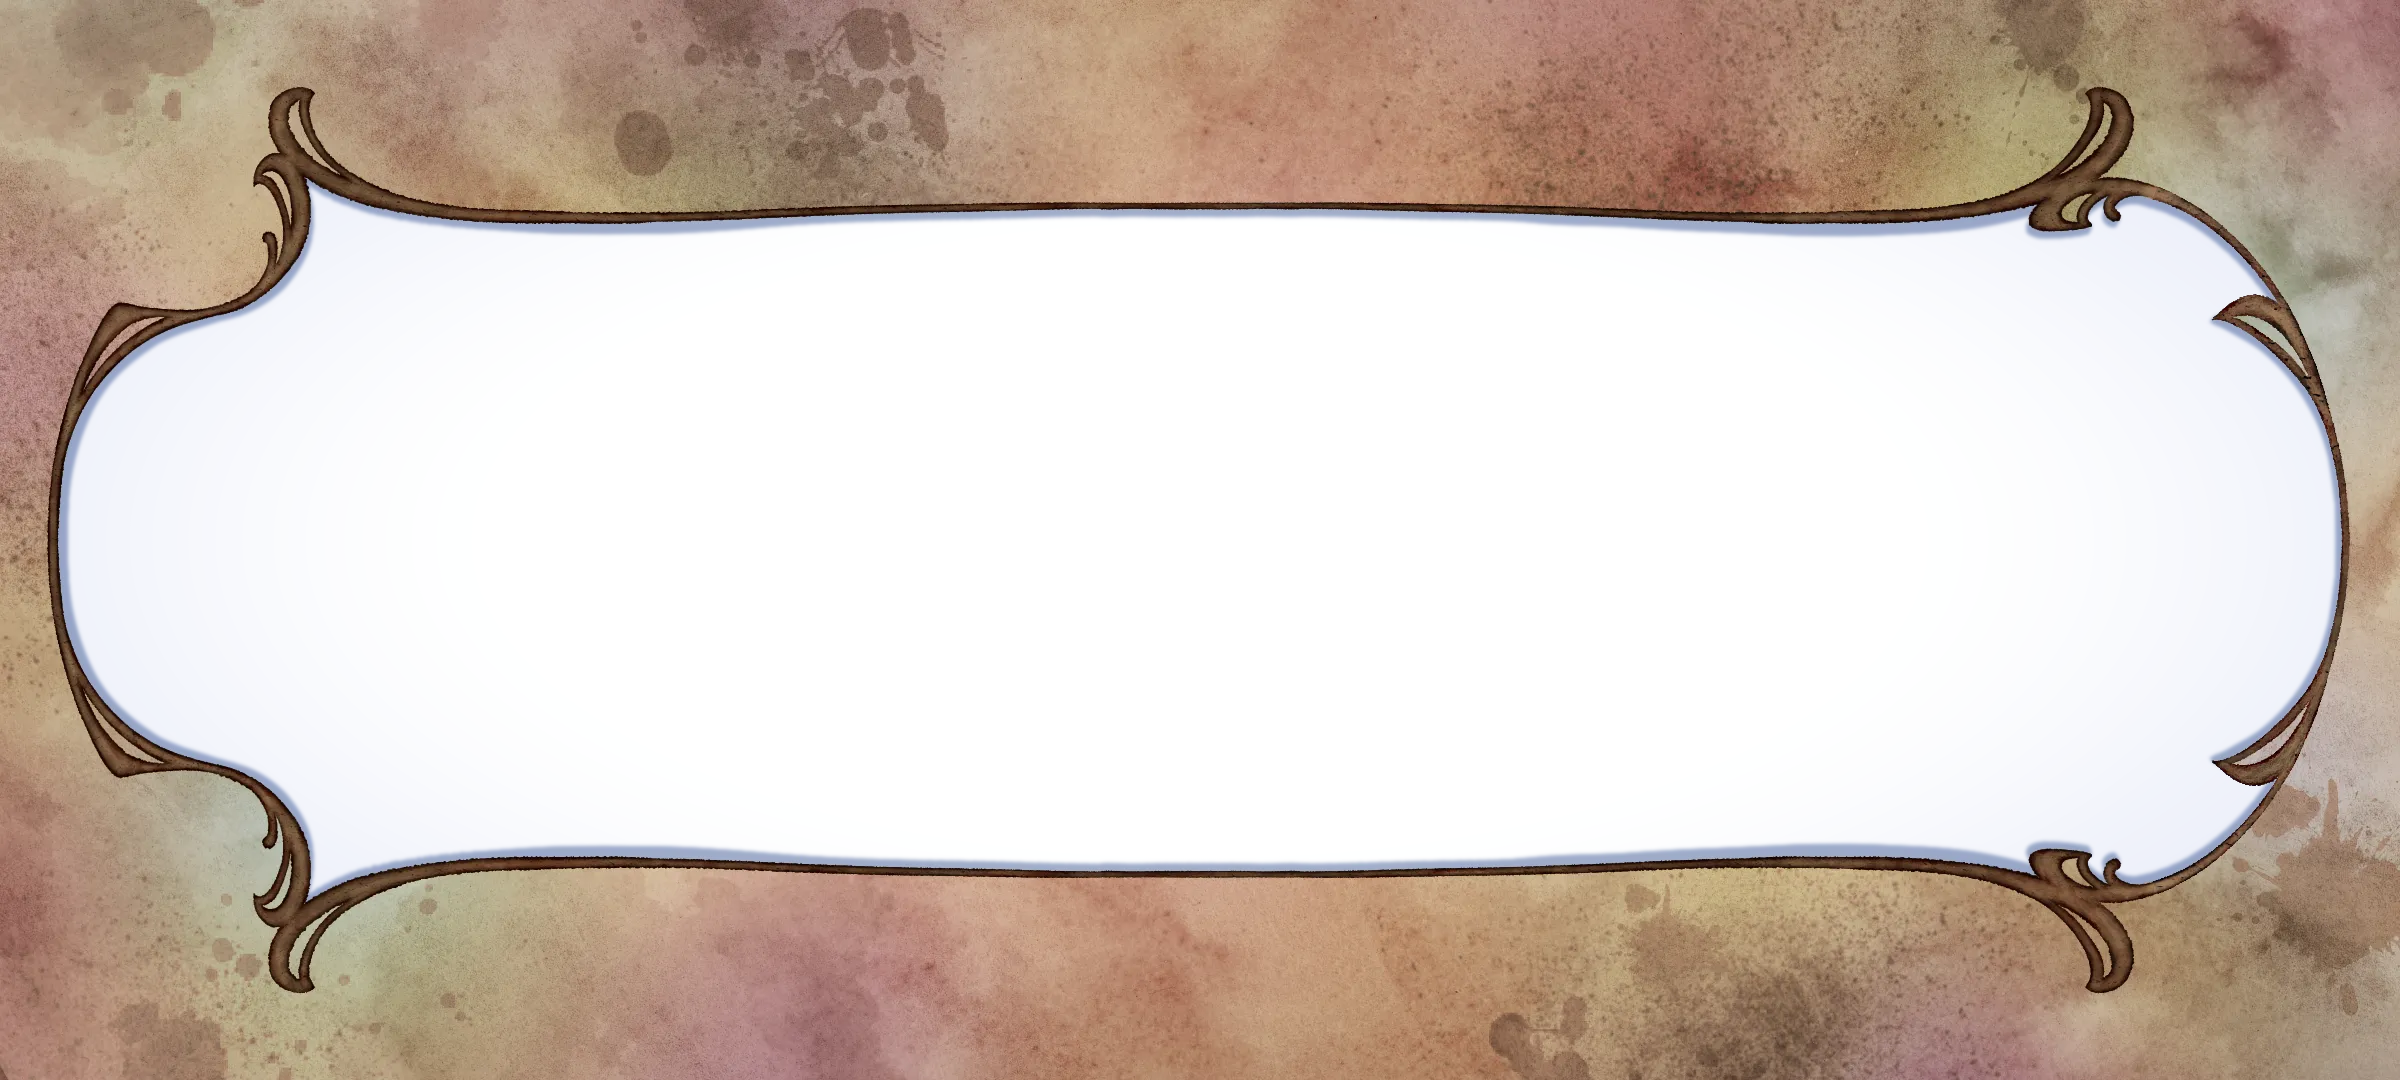
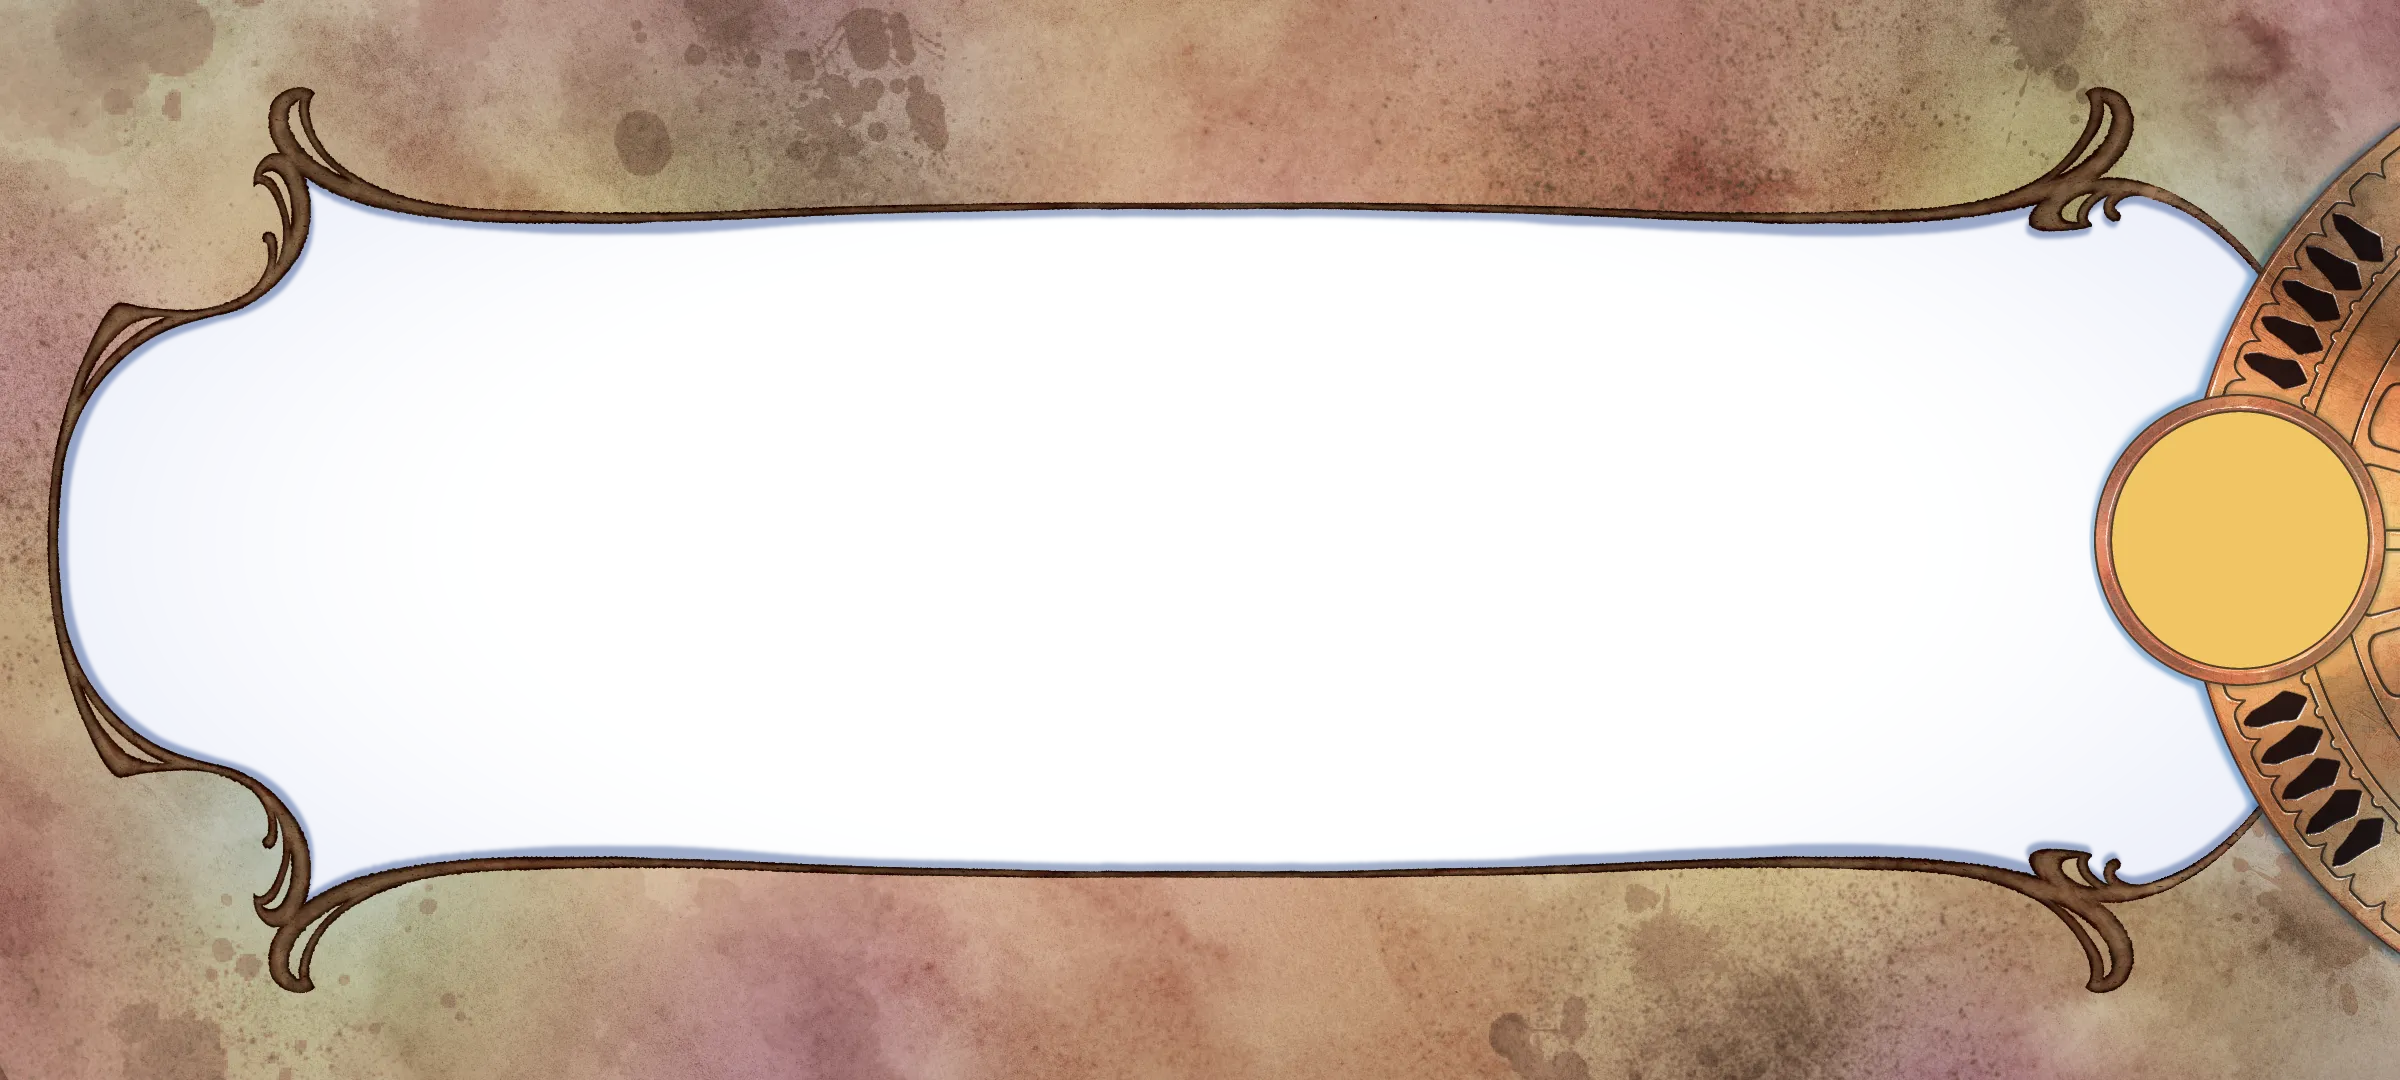
Added chrome ring

Changed region(s): [[0.8438, 0.1222, 1.0, 0.8861]]

diff --git a/client/src/lib/buttons/icon.ts b/client/src/lib/buttons/icon.ts
@@ -11,7 +11,7 @@ export default class Icon extends Button {
     f = () => {},
     muteClick = false,
     hint = '',
-    /** Square edge length in pixels; defaults to {@link Space.iconSize}. */
+    // Size for the icon
     size = Space.iconSize,
   }) {
     super(within, x, y, {

diff --git a/client/src/loader/assetLists.ts b/client/src/loader/assetLists.ts
@@ -394,6 +394,7 @@ export const assetLists = {
     "files": [
       "Light",
       "matchOuter",
+      "matchOuter",
       "old matchOuter",
       "water"
     ],
